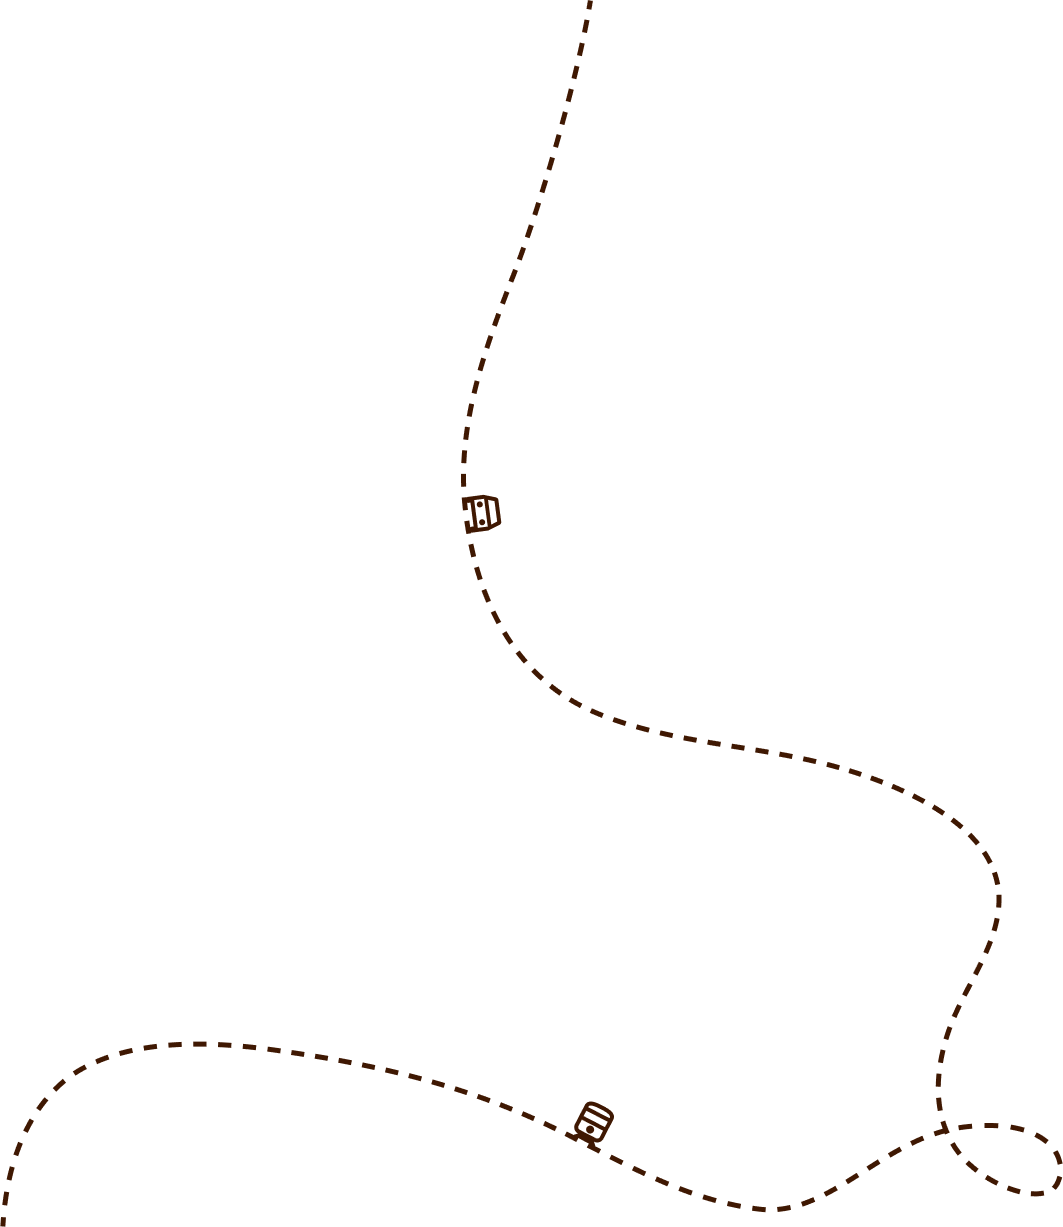
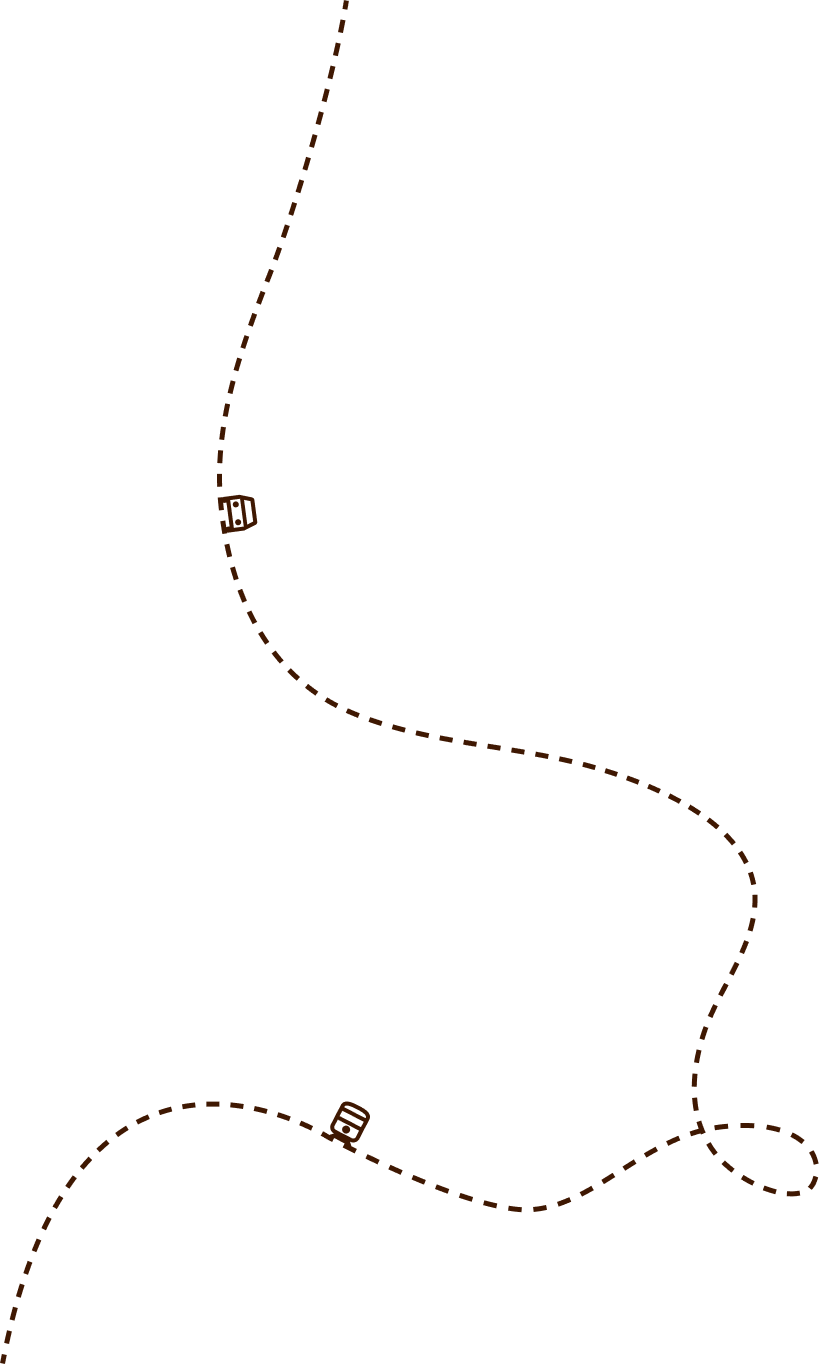
style: update css add white versions of dashed lines fix line position and size on all breakpoints

diff --git a/style.scss b/style.scss
@@ -27,9 +27,10 @@ body {
     margin: 0;
     padding: 0;
     color: var(--color-body);
-    font-size: 24px;
+    font-size: 20px;
             
         @media (min-width: 768px) {
+            font-size: 24px;
             flex-direction: row;
         }    
     
@@ -102,13 +103,7 @@ body {
                 @media (min-width: 1200px) {
                     display: block;
                 }
-            }
-
-            
-
-            
-            
-            
+            }            
 
             .card {
                 background-color: #fff;
@@ -124,15 +119,22 @@ body {
                 &.card1 {
 
                     @media (min-width: 1200px) {
-                        margin-bottom: 260px;
+                        margin-bottom: 315px;
+                    }
+
+                    @media (min-width: 1400px) {
+                        margin-bottom: 360px;
                     }
 
                     .line1 {
                         content: url('assets/line1.png');
-                        inset: 50% auto auto -165px;
+                        inset: 54% auto auto -199px;
+                        width: 650px;
                         
                         @media (min-width: 1400px) {
-                            inset: 35% auto auto -293px;                        
+                            // content: url('assets/line1.png');
+                            inset: 35% auto auto -217px;
+                            width: 820px;                
                         }
         
                     }
@@ -142,14 +144,21 @@ body {
                     margin-bottom: 72px;
                     padding: 48px;
 
+                    @media (min-width: 1400px) {
+                        margin-bottom: 150px;
+                    }
+
                     .line2 {
-                        content: url('assets/line2.png');
-                        inset: 66% 94px auto auto;
-                        /* transform: rotate(-2deg); */
-                        width: 90%;
+                        content: url('assets/line2_w.png');
+                        inset: 87% auto auto 100px;
+                        // transform: rotate(-2deg);
+                        width: 600px;
 
                         @media (min-width: 1400px) {
-                            inset: 66% -159px auto auto;
+                            // content: url('assets/line2.png');
+                            inset: 55% auto auto 225px;
+                            transform: none;
+                            width: 85%;
                         }
                         
                     }
@@ -208,25 +217,37 @@ body {
                     }
                 }
 
-                // &.picture {
-                //     @media (max-width: 1500px) {
-                //         margin-bottom: 250px;
-                //     }
-                // }
+                &.picture {
+                    @media (min-width: 1200px) {
+                        margin-bottom: 100px;
+                    }
+                }
 
                 &.eye {
                     @media (min-width: 1200px) {
+                        margin-bottom: 100px;
+
                         > div:first-child {
                             order: 2;
                         }
                     }
 
+                    @media (min-width: 1400px) {
+                        margin-bottom: 120px;
+                    }
+
                     .line3 {
                         content: url('assets/line3.png');
-                        inset: 65% auto auto -169px;
+                        inset: 76% auto auto -42px;
                         
-                        @media (min-width: 1200px) {
-                            inset: 85% auto auto -18px;
+                        @media (min-width: 1400px) {
+                            inset: 73% auto auto -123px;
+                            width: 90%;
+                            max-width: 1000px;
+                        }
+                        
+                        @media (min-width: 1700px) {
+                            inset: 79% auto auto -42px;
                         }
                     }
                 }
@@ -254,15 +275,23 @@ body {
             .polaroids {
                 display: flex;
                 justify-content: space-between;
-                align-items: center;
+                align-items: stretch;
                 flex-wrap: wrap;
                 gap: 24px;
-                margin-bottom: 72px;
+                margin-bottom: 150px;
                 
                 @media (min-width: 1200px) {
                     // margin-bottom: 220px;
                     flex-wrap: nowrap;
                 }
+
+                @media (min-width: 1400px) {
+                    margin-bottom: 250px;
+                }
+
+                // @media (min-width: 1700px) {
+                //     margin-bottom: 350px;
+                // }
                 
                 .item {
                     background-color: #fff;
@@ -271,32 +300,41 @@ body {
                     max-width: 400px;
                     margin-inline: auto;
                     font-family: var(--font-polaroid);
+                    font-size: 20px;
+                    font-weight: bold;
 
                     .img {
                         width: 100%;
-                        aspect-ratio: 6/7;
-                        object-fit: cover;
+                        background-position: bottom;
+                        // object-fit: cover;                        
+                        background-size: cover;
+                        aspect-ratio: 1;
                         margin-bottom: 12px;
+
+                        @media (min-width: 1400px) {
+                            aspect-ratio: 6/7;
+                            background-position: center;
+                        }
                     }
 
                     &:first-child {
                         .img {
                             background-image: url(assets/emad.jpg);
-                            background-size: cover;
+                            // background-size: cover;
                         }
                     }
 
                     &:nth-child(2) {
                         .img {
                             background-image: url(assets/nyc.jpg);
-                            background-size: cover;
+                            // background-size: cover;
                         }
                     }
 
                     &:nth-child(3) {
                         .img {
                             background-image: url(assets/garden.jpg);
-                            background-size: cover;
+                            // background-size: cover;
                         }
                     }
                 }

diff --git a/style.css b/style.css
@@ -24,10 +24,11 @@ body {
   margin: 0;
   padding: 0;
   color: var(--color-body);
-  font-size: 24px;
+  font-size: 20px;
 }
 @media (min-width: 768px) {
   body {
+    font-size: 24px;
     flex-direction: row;
   }
 }
@@ -111,31 +112,44 @@ body .content-wrap main .card {
 }
 @media (min-width: 1200px) {
   body .content-wrap main .card.card1 {
-    margin-bottom: 260px;
+    margin-bottom: 315px;
+  }
+}
+@media (min-width: 1400px) {
+  body .content-wrap main .card.card1 {
+    margin-bottom: 360px;
   }
 }
 body .content-wrap main .card.card1 .line1 {
   content: url("assets/line1.png");
-  inset: 50% auto auto -165px;
+  inset: 54% auto auto -199px;
+  width: 650px;
 }
 @media (min-width: 1400px) {
   body .content-wrap main .card.card1 .line1 {
-    inset: 35% auto auto -293px;
+    inset: 35% auto auto -217px;
+    width: 820px;
   }
 }
 body .content-wrap main .card.card2 {
   margin-bottom: 72px;
   padding: 48px;
 }
+@media (min-width: 1400px) {
+  body .content-wrap main .card.card2 {
+    margin-bottom: 150px;
+  }
+}
 body .content-wrap main .card.card2 .line2 {
-  content: url("assets/line2.png");
-  inset: 66% 94px auto auto;
-  /* transform: rotate(-2deg); */
-  width: 90%;
+  content: url("assets/line2_w.png");
+  inset: 87% auto auto 100px;
+  width: 600px;
 }
 @media (min-width: 1400px) {
   body .content-wrap main .card.card2 .line2 {
-    inset: 66% -159px auto auto;
+    inset: 55% auto auto 225px;
+    transform: none;
+    width: 85%;
   }
 }
 body .content-wrap main .card h2 {
@@ -180,17 +194,37 @@ body .content-wrap main .section {
   }
 }
 @media (min-width: 1200px) {
+  body .content-wrap main .section.picture {
+    margin-bottom: 100px;
+  }
+}
+@media (min-width: 1200px) {
+  body .content-wrap main .section.eye {
+    margin-bottom: 100px;
+  }
   body .content-wrap main .section.eye > div:first-child {
     order: 2;
   }
 }
+@media (min-width: 1400px) {
+  body .content-wrap main .section.eye {
+    margin-bottom: 120px;
+  }
+}
 body .content-wrap main .section.eye .line3 {
   content: url("assets/line3.png");
-  inset: 65% auto auto -169px;
+  inset: 76% auto auto -42px;
 }
-@media (min-width: 1200px) {
+@media (min-width: 1400px) {
   body .content-wrap main .section.eye .line3 {
-    inset: 85% auto auto -18px;
+    inset: 73% auto auto -123px;
+    width: 90%;
+    max-width: 1000px;
+  }
+}
+@media (min-width: 1700px) {
+  body .content-wrap main .section.eye .line3 {
+    inset: 79% auto auto -42px;
   }
 }
 body .content-wrap main .section .img {
@@ -211,14 +245,19 @@ body .content-wrap main .section h3 {
 body .content-wrap main .polaroids {
   display: flex;
   justify-content: space-between;
-  align-items: center;
+  align-items: stretch;
   flex-wrap: wrap;
   gap: 24px;
-  margin-bottom: 72px;
+  margin-bottom: 150px;
 }
 @media (min-width: 1200px) {
   body .content-wrap main .polaroids {
     flex-wrap: nowrap;
+  }
+}
+@media (min-width: 1400px) {
+  body .content-wrap main .polaroids {
+    margin-bottom: 250px;
   }
 }
 body .content-wrap main .polaroids .item {
@@ -228,25 +267,30 @@ body .content-wrap main .polaroids .item {
   max-width: 400px;
   margin-inline: auto;
   font-family: var(--font-polaroid);
+  font-size: 20px;
+  font-weight: bold;
 }
 body .content-wrap main .polaroids .item .img {
   width: 100%;
-  aspect-ratio: 6/7;
-  -o-object-fit: cover;
-     object-fit: cover;
+  background-position: bottom;
+  background-size: cover;
+  aspect-ratio: 1;
   margin-bottom: 12px;
+}
+@media (min-width: 1400px) {
+  body .content-wrap main .polaroids .item .img {
+    aspect-ratio: 6/7;
+    background-position: center;
+  }
 }
 body .content-wrap main .polaroids .item:first-child .img {
   background-image: url(assets/emad.jpg);
-  background-size: cover;
 }
 body .content-wrap main .polaroids .item:nth-child(2) .img {
   background-image: url(assets/nyc.jpg);
-  background-size: cover;
 }
 body .content-wrap main .polaroids .item:nth-child(3) .img {
   background-image: url(assets/garden.jpg);
-  background-size: cover;
 }
 
 footer {
